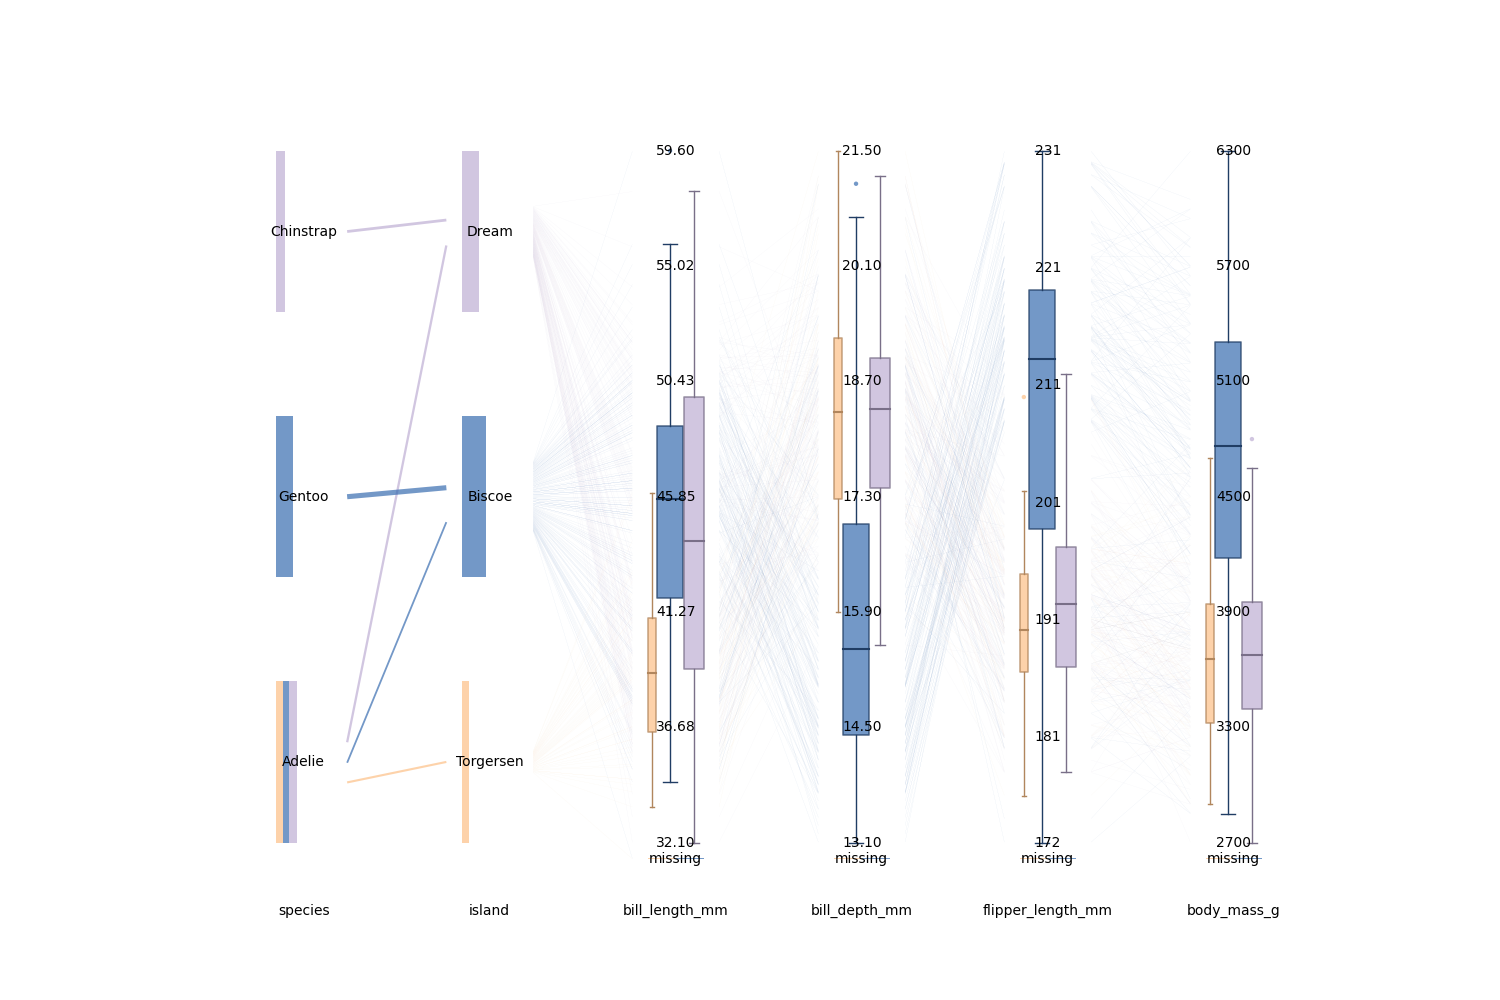
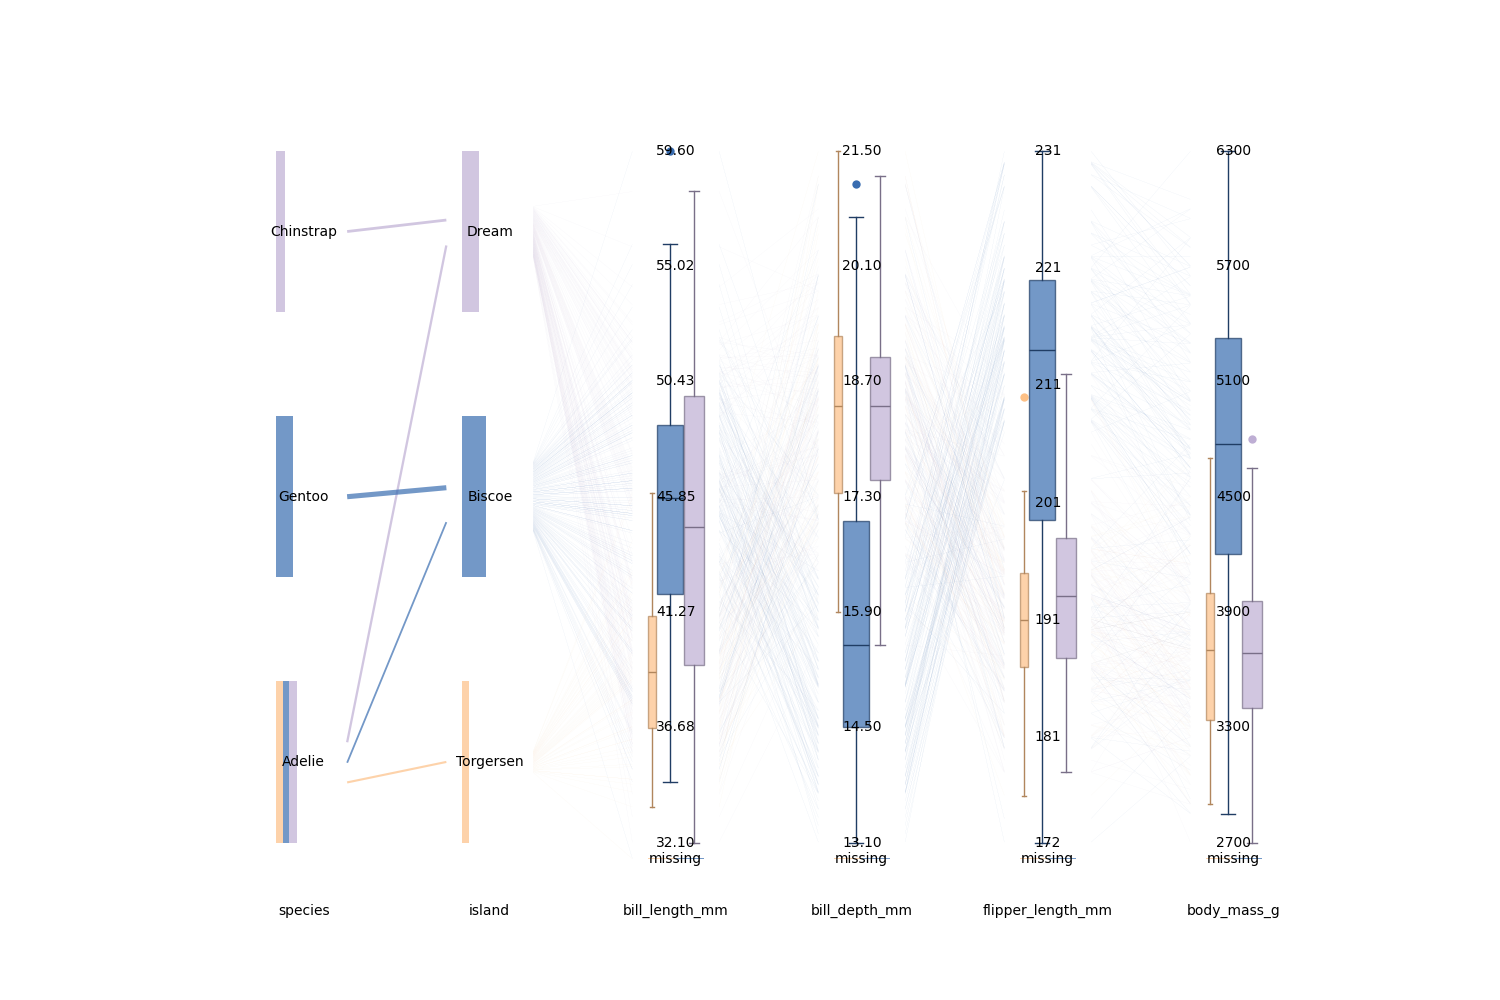
fix things when weights are not being used

diff --git a/hammock_plot/unibar.py b/hammock_plot/unibar.py
@@ -29,7 +29,7 @@ class Unibar:
                  violin_bw_method,
                  draw_white_dividers):
         self.df = df
-        self.weights = weights
+        self.weights = weights # None if none...
         self.name = name
         self.display_type = display_type
         self.label_type = label_type
@@ -381,18 +381,6 @@ class Unibar:
             )
 
     def _prepare_scaled_data(self, y_start, y_end):
-        """
-        Prepare scaled data and colors for plotting.
-        Each element in data_per_color corresponds to one highlight (color),
-        with the last element holding the non-highlighted data.
-        Stores one entry per Value (not expanded), scaled into [y_start, y_end].
-        Weights are handled separately via _prepare_weights().
-
-        Returns:
-            data_per_color: list of lists, each list is the scaled values for a highlight
-            facecolors: list of colors for each dataset
-            edgecolors: darker/lighter edge colour relative to face colour
-        """
         if not self.non_missing_vals:
             return [], [], []
 
@@ -407,6 +395,9 @@ class Unibar:
                 return (y_start + y_end) / 2
             return y_start + (val - min_val) / (max_val - min_val) * (y_end - y_start)
 
+        # weights column is present when self.weights is not None
+        weights_present = self.weights is not None
+
         for v in self.non_missing_vals:
             occs = v.occ_by_colour
             if len(occs) < n_colors:
@@ -414,21 +405,16 @@ class Unibar:
             scaled = scale_y(v.numeric)
             for i, occ in enumerate(occs):
                 if occ > 0:
-                    data_per_color[i].append(scaled)
+                    if weights_present:
+                        data_per_color[i].append(scaled)
+                    else:
+                        data_per_color[i].extend([scaled] * int(occ))
 
         return data_per_color, self.colors, [edge_color_from_face(c) for c in self.colors]
 
     def _prepare_weights(self, n_colors):
-        """
-        Returns weights_per_color mirroring data_per_color from _prepare_scaled_data,
-        or None if all weights are uniform (occ == 1 for every non-zero entry).
-        """
-        all_occs = []
-        for v in self.non_missing_vals:
-            all_occs.extend(v.occ_by_colour)
-
-        if all(o == 1 for o in all_occs if o > 0):
-            return None  # unweighted — use fast paths in draw functions
+        if self.weights is None:
+            return None
 
         weights_per_color = [[] for _ in range(n_colors)]
         for v in self.non_missing_vals:
